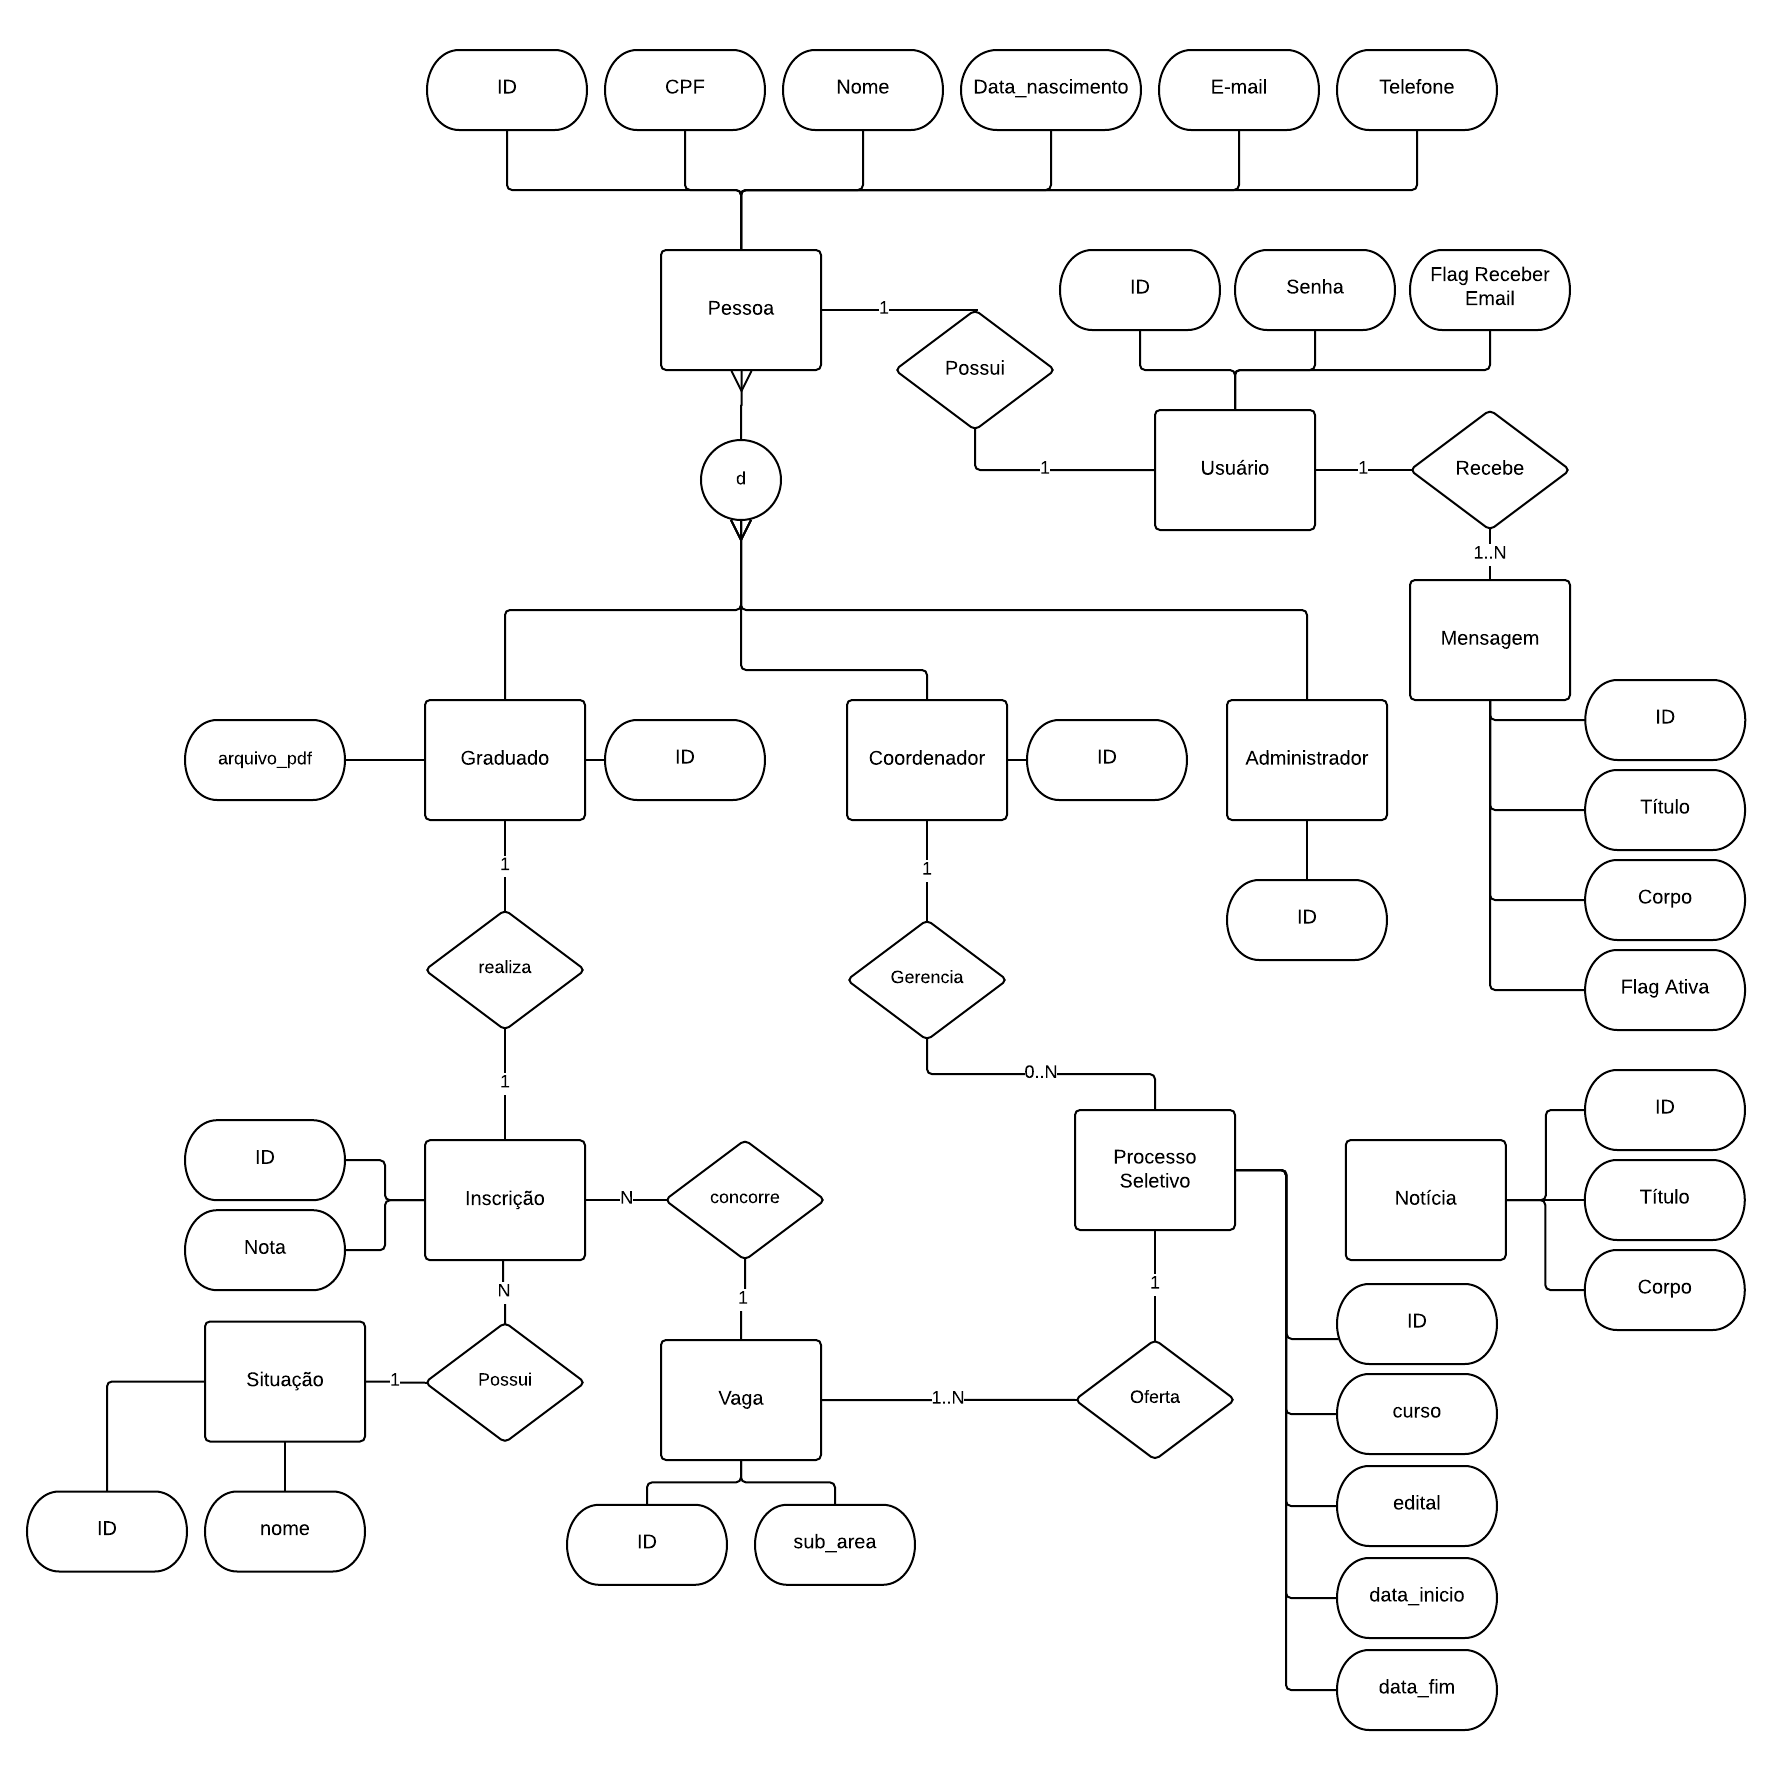
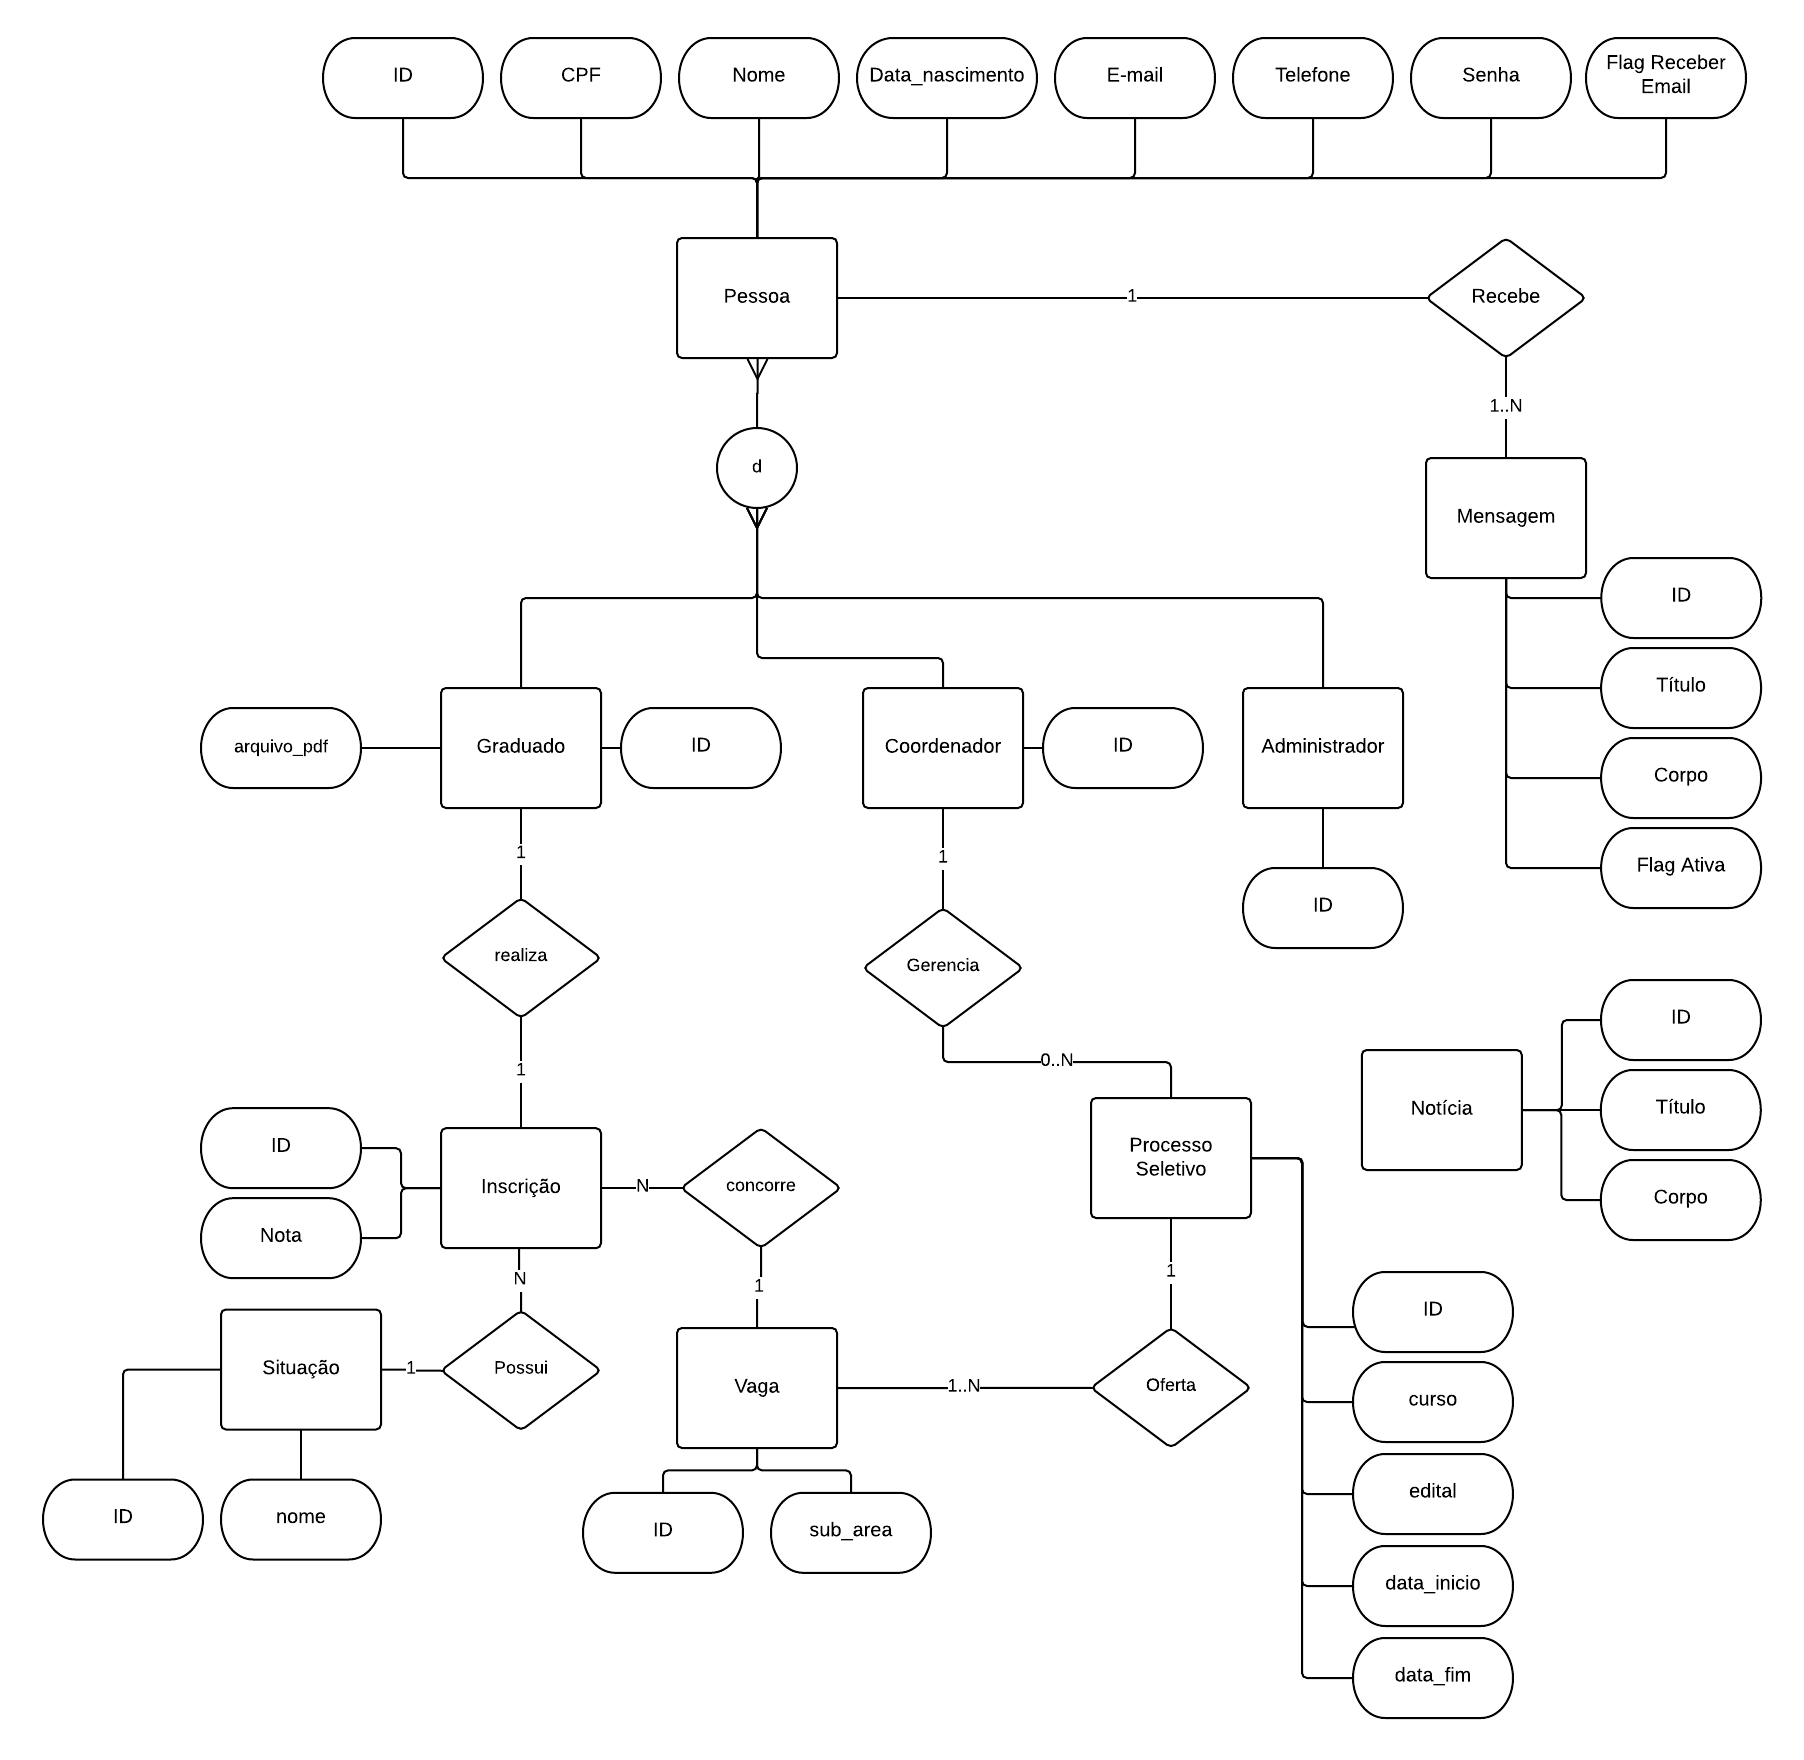
pessoa virou usuário

diff --git a/src/main/java/controller/UsuarioMB.java b/src/main/java/controller/UsuarioMB.java
@@ -1,0 +1,47 @@
+package controller;
+
+import javax.faces.application.FacesMessage;
+import javax.faces.bean.ManagedBean;
+import javax.faces.bean.RequestScoped;
+import javax.faces.context.FacesContext;
+import javax.inject.Inject;
+
+import dao.UsuarioDAO;
+import model.Usuario;
+
+@ManagedBean
+@RequestScoped
+public class UsuarioMB {
+	private Usuario usuario;
+	@Inject private UsuarioDAO usuarioDAO;
+	
+	public UsuarioMB(){
+		usuario = new Usuario();
+	}
+	
+	public Usuario getUsuario(){
+		return usuario;
+	}
+	
+	public void setUsuario(Usuario usuario){
+		this.usuario = usuario;
+	}
+	
+	public String login(){
+		Usuario u = usuarioDAO.buscarEmail(usuario.getEmail());
+		if(u!= null) {
+			if(u.getSenha().equals(usuario.getSenha())) {
+				return"/interna/cadastra.jsf";
+			} else{
+				FacesMessage msg = new FacesMessage("Email e/ou senha incorretos");
+				msg.setSeverity(FacesMessage.SEVERITY_ERROR);
+				FacesContext.getCurrentInstance().addMessage("", msg);
+			}
+		} else{
+			FacesMessage msg = new FacesMessage("Usuario nao encontrado");
+			msg.setSeverity(FacesMessage.SEVERITY_ERROR);
+			FacesContext.getCurrentInstance().addMessage("", msg);
+		}
+		return null;
+	}
+}

diff --git a/src/main/java/dao/UsuarioDAO.java b/src/main/java/dao/UsuarioDAO.java
@@ -1,0 +1,48 @@
+package dao;
+
+import java.util.List;
+
+import javax.persistence.EntityManager;
+import javax.persistence.PersistenceContext;
+import javax.persistence.Query;
+
+import model.Usuario;
+import model.Mensagem;
+
+public class UsuarioDAO {
+	@PersistenceContext
+	private EntityManager em;
+	
+	public void salvar(Usuario x){
+		em.persist(x);
+	}
+	
+	public void atualizar(Usuario x){
+		em.merge(x);
+	}
+	
+	public void remover(Usuario x){
+		x = em.find(Usuario.class, x.getIdusuario());
+		em.remove(x);
+	}
+
+	public Usuario buscarEmail(String email) {
+		return (Usuario) em.find(Usuario.class, email);
+	}
+	
+	@SuppressWarnings("unchecked")
+	public List<Mensagem> listarMensagens() {
+		String qs = "select m from Mensagem m";
+		Query q = em.createQuery(qs);
+		return (List<Mensagem>) q.getResultList();
+	}
+	
+	public boolean novaMensagem(){
+		String qs = "select m from mensagem m where m.ativa = 1";
+		Query q = em.createQuery(qs);
+		if(q.getResultList() != null){
+			return true;
+		}
+		return false;
+	}
+}

diff --git a/src/main/java/model/Usuario.java b/src/main/java/model/Usuario.java
@@ -10,15 +10,14 @@ import javax.persistence.GenerationType;
 import javax.persistence.Id;
 import javax.persistence.JoinColumn;
 import javax.persistence.OneToMany;
-import javax.persistence.OneToOne;
 import javax.persistence.Table;
 
 @Entity
-@Table(name="pessoa")
-public class Pessoa {
+@Table(name="usuario")
+public class Usuario {
 	@Id
 	@GeneratedValue(strategy=GenerationType.AUTO)
-	private int idpessoa;
+	private int idusuario;
 	@Column(nullable=false, unique=true)
 	private String cpf;
 	@Column(nullable=false)
@@ -37,8 +36,8 @@ public class Pessoa {
 	@JoinColumn(name="idmensagem")
 	private List<Mensagem> mensagens;
 	
-	public int getIdpessoa() {
-		return idpessoa;
+	public int getIdusuario() {
+		return idusuario;
 	}
 
 	public String getCpf() {

diff --git a/src/main/java/model/Coordenador.java b/src/main/java/model/Coordenador.java
@@ -19,8 +19,8 @@ public class Coordenador {
 	private int idcoordenador;
 	
 	@OneToOne
-	@JoinColumn(name="idpessoa")
-	private Pessoa pessoa;
+	@JoinColumn(name="idusuario")
+	private Usuario usuario;
 	
 	@OneToMany
 	@JoinColumn(name="idcoordenador")
@@ -30,12 +30,12 @@ public class Coordenador {
 		return idcoordenador;
 	}
 
-	public Pessoa getPessoa() {
-		return pessoa;
+	public Usuario getUsuario() {
+		return usuario;
 	}
-
-	public void setPessoa(Pessoa pessoa) {
-		this.pessoa = pessoa;
+	
+	public void setIdusuario(Usuario usuario) {
+		this.usuario = usuario;
 	}
 
 	public List<ProcessoSeletivo> getProcessos() {

diff --git a/src/main/java/model/Graduado.java b/src/main/java/model/Graduado.java
@@ -19,8 +19,8 @@ public class Graduado {
 	private File identidade;
 	
 	@OneToOne
-	@JoinColumn(name="idpessoa")
-	private Pessoa pessoa;
+	@JoinColumn(name="idusuario")
+	private Usuario usuario;
 
 	public int getIdgraduado() {
 		return idgraduado;
@@ -34,11 +34,11 @@ public class Graduado {
 		this.identidade = identidade;
 	}
 
-	public Pessoa getPessoa() {
-		return pessoa;
+	public Usuario getUsuario() {
+		return usuario;
 	}
-
-	public void setPessoa(Pessoa pessoa) {
-		this.pessoa = pessoa;
+	
+	public void setIdusuario(Usuario usuario) {
+		this.usuario = usuario;
 	}
 }

diff --git a/src/main/java/model/Mensagem.java b/src/main/java/model/Mensagem.java
@@ -23,8 +23,8 @@ public class Mensagem {
 	private boolean ativa;	
 	
 	@ManyToOne
-	@JoinColumn(name="idpessoa")
-	private Pessoa pessoa;
+	@JoinColumn(name="idusuario")
+	private Usuario usuario;
 
 	public int getIdmensagem() {
 		return idmensagem;
@@ -54,11 +54,11 @@ public class Mensagem {
 		this.ativa = ativa;
 	}
 
-	public Pessoa getPessoa() {
-		return pessoa;
+	public Usuario getUsuario() {
+		return usuario;
 	}
-
-	public void setPessoa(Pessoa pessoa) {
-		this.pessoa = pessoa;
+	
+	public void setIdusuario(Usuario usuario) {
+		this.usuario = usuario;
 	}
 }

diff --git a/src/main/java/model/Administrador.java b/src/main/java/model/Administrador.java
@@ -16,18 +16,18 @@ public class Administrador {
 	private int idadministrador;
 	
 	@OneToOne
-	@JoinColumn(name="idpessoa")
-	private Pessoa pessoa;
+	@JoinColumn(name="idusuario")
+	private Usuario usuario;
 
 	public int getIdadministrador() {
 		return idadministrador;
 	}
 
-	public Pessoa getPessoa() {
-		return pessoa;
+	public Usuario getUsuario() {
+		return usuario;
 	}
-
-	public void setPessoa(Pessoa pessoa) {
-		this.pessoa = pessoa;
+	
+	public void setIdusuario(Usuario usuario) {
+		this.usuario = usuario;
 	}
 }
